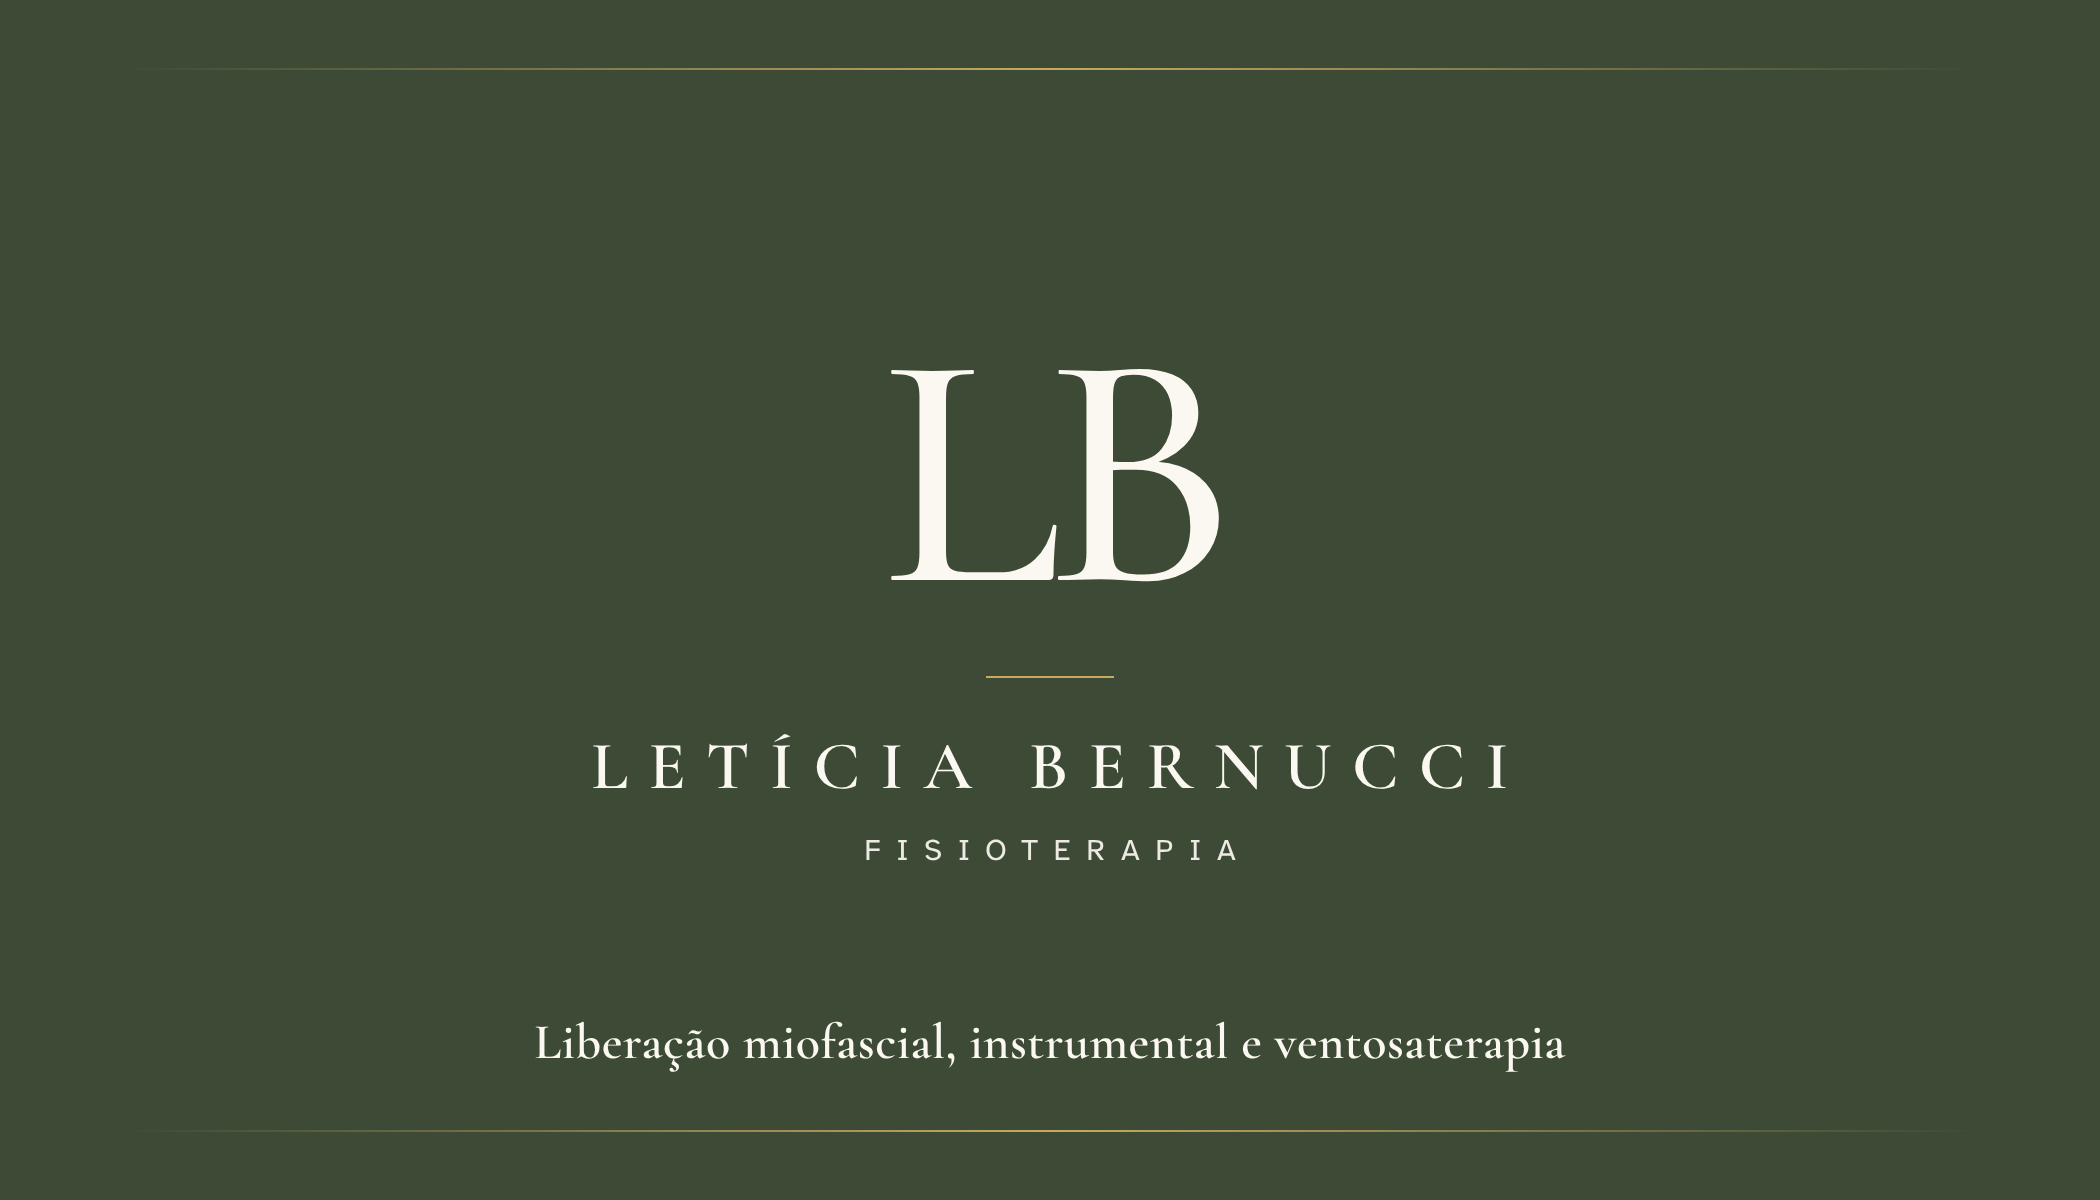
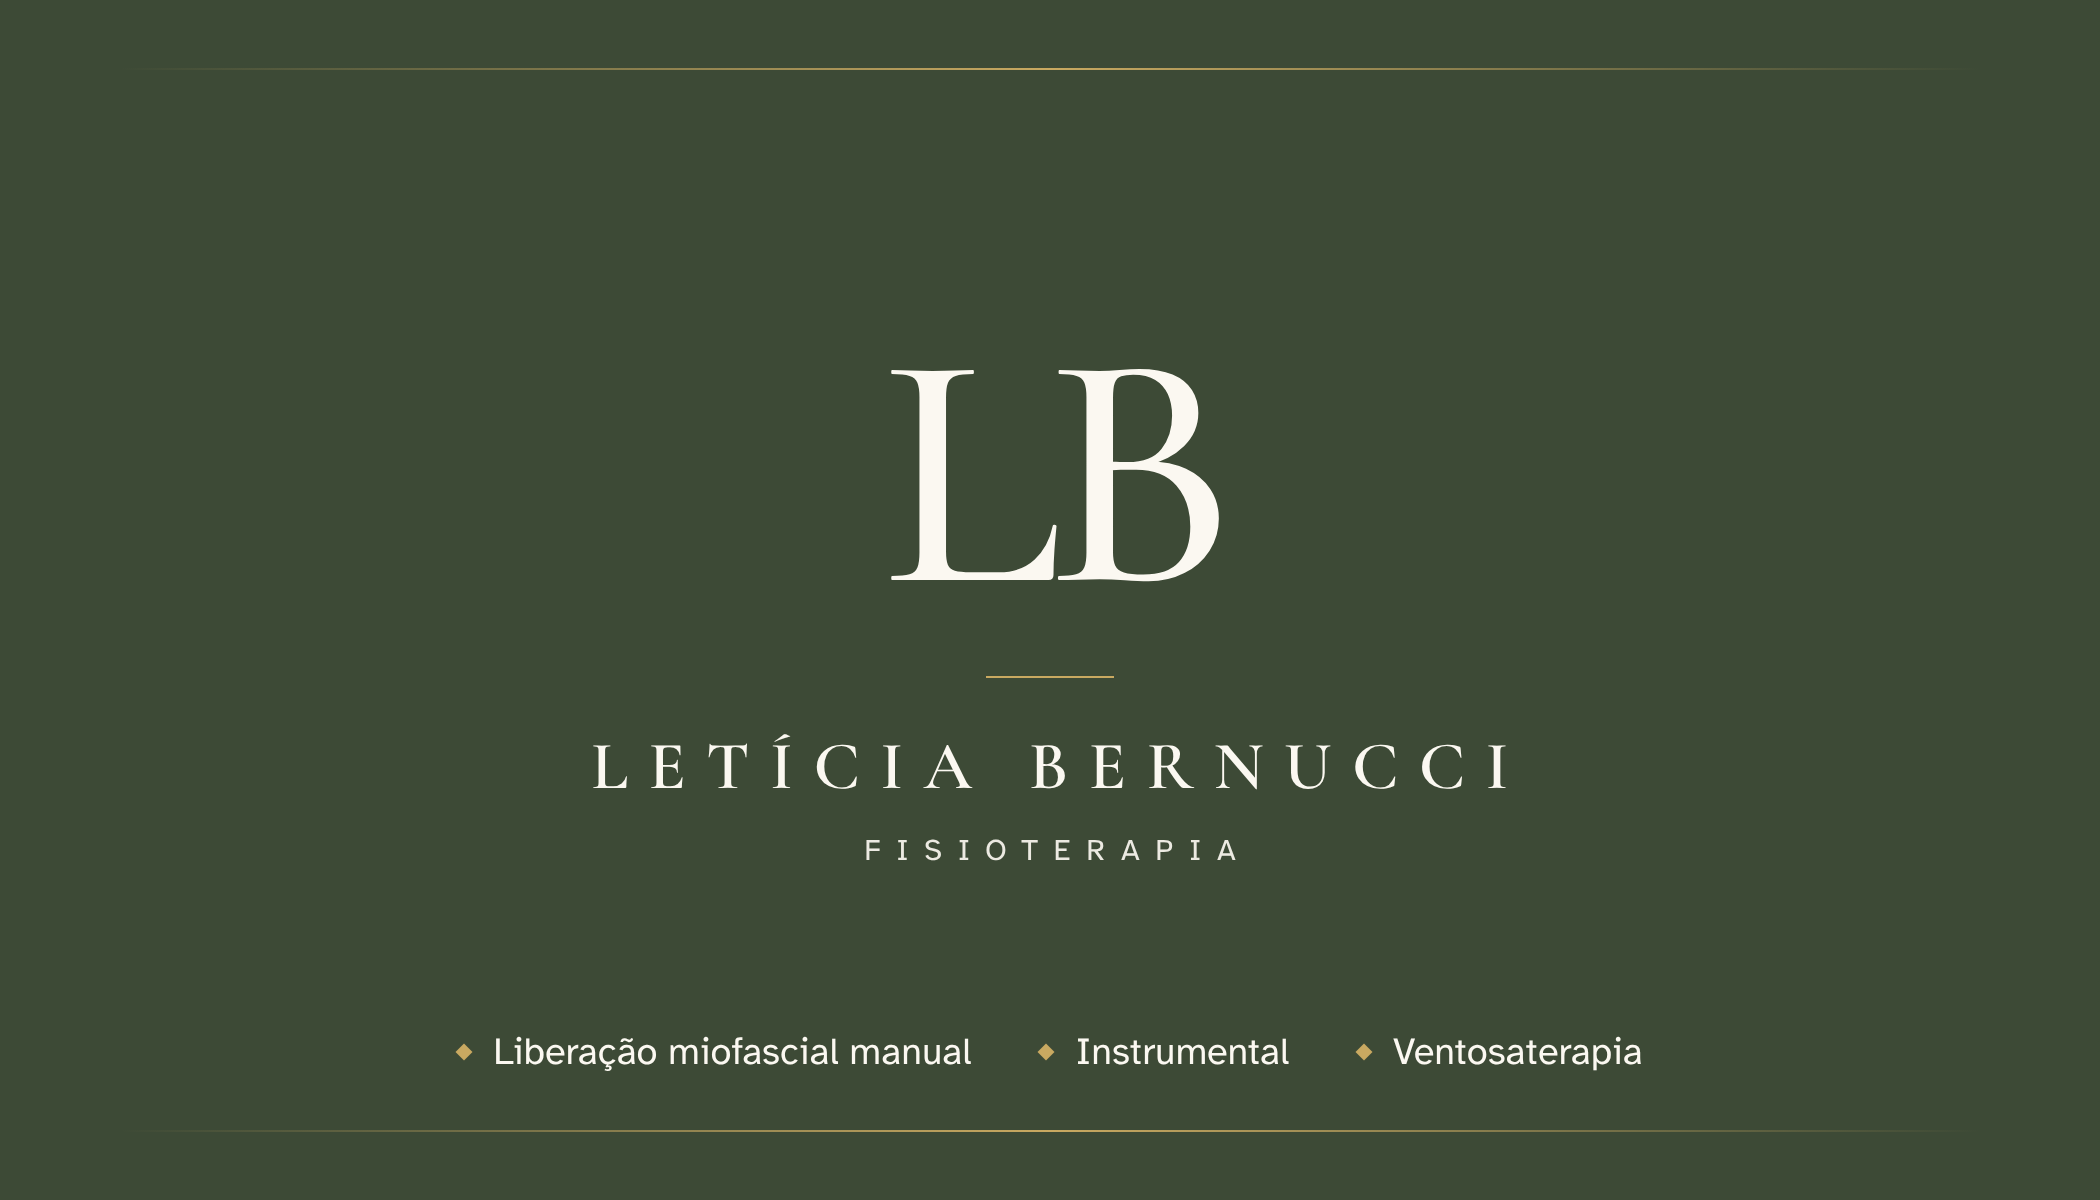
Cartão: técnicas em tópicos
- "Liberação miofascial manual", "Instrumental" e "Ventosaterapia" em
  lista com marcadores dourados, em destaque, sem frase acima.
- Frente e prévia de link mostram os três tópicos na base.
- Corrige um texto "null" que aparecia na frente quando não há frase.
- Imagens regeradas.

Claude-Session: https://claude.ai/code/session_01P7P3DMQgmU9pvidckpJpap

Changed region(s): [[0.2167, 0.8633, 0.7738, 0.8942]]

diff --git a/cartao/modelo-imagens.html b/cartao/modelo-imagens.html
@@ -33,8 +33,10 @@
     .frente .regua { background: var(--dourado); height: 1px; }
     .frente .nome { font-family: var(--titulo); font-weight: 600; text-transform: uppercase; }
     .frente .area { text-transform: uppercase; opacity: .92; }
-    .frente .servicos { display: flex; align-items: center; justify-content: center; gap: 18px; opacity: .9; }
-    .frente .servicos .losango { background: var(--dourado); width: 5px; height: 5px; }
+    .frente .servicos { display: flex; align-items: center; justify-content: center; gap: 34px; }
+    .frente .topico { display: flex; align-items: center; gap: 12px; }
+    .frente .servicos .losango { background: var(--dourado); width: 6px; height: 6px; }
+    .f-frente .servicos { position: absolute; bottom: 62px; font-size: 19px; }
     .f-frente { width: 1050px; height: 600px; }
     .f-frente .monograma { font-size: 168px; }
     .f-frente .regua { width: 64px; margin: 30px 0 24px; }
@@ -49,7 +51,7 @@
     .f-link .nome { font-size: 40px; letter-spacing: .3em; padding-left: .3em; }
     .f-link .area { font-size: 17px; letter-spacing: .52em; padding-left: .52em; margin-top: 12px; }
     .f-link .mensagem { font-size: 30px; margin-top: 30px; }
-    .f-link .servicos { position: absolute; bottom: 62px; font-size: 18px; }
+    .f-link .servicos { position: absolute; bottom: 62px; font-size: 21px; }
 
     /* ---------- Verso: serviços e contatos sobre marfim ---------- */
     .f-verso { width: 1050px; height: 600px; background: var(--marfim); display: grid; grid-template-columns: 1.08fr 1px 1fr; gap: 0 54px; padding: 64px 68px 86px; }
@@ -61,9 +63,9 @@
     .col-esq .prof { font-size: 18px; color: var(--texto-suave); margin-top: 8px; }
     .col-esq .regua { width: 48px; height: 1px; background: var(--dourado-escuro); margin: 22px 0 18px; }
     .col-esq .mensagem { font-family: var(--titulo); font-weight: 600; font-size: 31px; line-height: 1.15; color: var(--musgo-escuro); text-wrap: balance; }
-    .lista-servicos { display: flex; flex-direction: column; gap: 7px; margin-top: 18px; }
-    .lista-servicos div { display: flex; align-items: center; gap: 12px; font-size: 16px; color: var(--texto-suave); }
-    .lista-servicos .losango { width: 5px; height: 5px; }
+    .lista-servicos { display: flex; flex-direction: column; gap: 12px; }
+    .lista-servicos div { display: flex; align-items: center; gap: 16px; font-family: var(--titulo); font-weight: 600; font-size: 30px; line-height: 1.15; color: var(--musgo-escuro); }
+    .lista-servicos .losango { width: 8px; height: 8px; }
     .col-dir { display: flex; flex-direction: column; justify-content: center; gap: 22px; }
     .contato { display: flex; align-items: center; gap: 16px; font-size: 21px; color: var(--texto); }
     .contato .icone { width: 30px; height: 30px; color: var(--musgo); }
@@ -78,6 +80,9 @@
     .f-vertical .topo .area { font-size: 21px; letter-spacing: .52em; padding-left: .52em; margin-top: 16px; }
     .f-vertical .base { flex: 1; display: flex; flex-direction: column; align-items: center; justify-content: center; gap: 46px; padding: 0 80px 30px; }
     .f-vertical .mensagem { font-family: var(--titulo); font-weight: 600; font-size: 60px; line-height: 1.1; color: var(--musgo-escuro); text-align: center; text-wrap: balance; }
+    .f-vertical .lista-servicos { gap: 16px; }
+    .f-vertical .lista-servicos div { font-size: 50px; gap: 22px; }
+    .f-vertical .lista-servicos .losango { width: 11px; height: 11px; }
     .f-vertical .servicos-v { display: flex; align-items: center; justify-content: center; gap: 16px; font-size: 21px; color: var(--texto-suave); margin-top: -14px; }
     .f-vertical .servicos-v .losango { width: 6px; height: 6px; }
     .f-vertical .contatos { display: flex; flex-direction: column; gap: 22px; padding-top: 36px; border-top: 1px solid #DCD2BE; }
@@ -105,7 +110,7 @@
       }
       function servicosLinha() {
         const s = el("div", "servicos");
-        (C.servicos || []).forEach((t, i) => { if (i) s.append(el("span", "losango")); s.append(el("span", null, t)); });
+        for (const t of C.servicos || []) s.append(el("span", "topico", el("span", "losango"), el("span", null, t)));
         return s;
       }
       function servicosLista() {
@@ -147,8 +152,9 @@
       if (formato === "frente" || formato === "link") {
         arte.className = "frente f-" + formato;
         blocoMarca(arte);
-        arte.append(mensagem());
-        if (formato === "link" && (C.servicos || []).length) arte.append(servicosLinha());
+        const msg = mensagem();
+        if (msg) arte.append(msg);
+        if ((C.servicos || []).length && (formato === "link" || !C.mensagem)) arte.append(servicosLinha());
         arte.append(linha({ top: "34px", left: "60px", right: "60px" }), linha({ bottom: "34px", left: "60px", right: "60px" }));
       } else if (formato === "verso") {
         arte.className = "f-verso";
@@ -161,7 +167,7 @@
         blocoMarca(topo);
         topo.append(linha({ top: "40px", left: "80px", right: "80px" }), linha({ bottom: "40px", left: "80px", right: "80px" }));
         const contatosEl = el("div", "contatos", ...contatos());
-        arte.append(topo, el("div", "base", mensagem(), (C.servicos || []).length ? servicosV() : null, contatosEl), el("div", "faixa"));
+        arte.append(topo, el("div", "base", mensagem(), (C.servicos || []).length ? servicosLista() : null, contatosEl), el("div", "faixa"));
       }
       document.fonts.ready.then(() => { document.body.dataset.pronto = "1"; });
     })();

diff --git a/cartao/index.html b/cartao/index.html
@@ -4,11 +4,11 @@
   <meta charset="utf-8">
   <meta name="viewport" content="width=device-width, initial-scale=1, viewport-fit=cover">
   <title>Letícia Bernucci · Fisioterapia</title>
-  <meta name="description" content="Liberação miofascial, instrumental e ventosaterapia. Atendimento domiciliar.">
+  <meta name="description" content="Liberação miofascial manual, instrumental e ventosaterapia. Atendimento domiciliar.">
   <meta name="theme-color" content="#3D4A36">
   <meta property="og:type" content="website">
   <meta property="og:title" content="Letícia Bernucci · Fisioterapia">
-  <meta property="og:description" content="Liberação miofascial, instrumental e ventosaterapia · Atendimento domiciliar.">
+  <meta property="og:description" content="Liberação miofascial manual · Instrumental · Ventosaterapia · Atendimento domiciliar.">
   <meta property="og:image" content="https://rduartefrancielly-blip.github.io/catalogo-Life-atelie/fisioterapia/cartao/imagens/cartao-link.png">
   <meta property="og:url" content="https://rduartefrancielly-blip.github.io/catalogo-Life-atelie/fisioterapia/cartao/">
   <link rel="icon" href="../img/icone.svg" type="image/svg+xml">
@@ -55,8 +55,9 @@
     .verso { padding: 26px 24px 28px; display: flex; flex-direction: column; gap: 22px; }
     .mensagem { font-family: var(--titulo); font-weight: 600; font-size: 1.85rem; line-height: 1.15; color: var(--musgo-escuro); text-align: center; margin: 6px 0 0; text-wrap: balance; }
     .regua-escura { width: 40px; height: 1px; background: var(--dourado-escuro); border: 0; margin: -4px auto -6px; }
-    .servicos { list-style: none; margin: 0; padding: 0; display: flex; flex-direction: column; align-items: center; gap: 6px; text-align: center; color: var(--texto-suave); }
-    .servicos li + li::before { content: ""; display: block; width: 5px; height: 5px; margin: 0 auto 6px; background: var(--dourado-escuro); transform: rotate(45deg); }
+    .servicos { list-style: none; margin: 0 auto; padding: 0; display: flex; flex-direction: column; gap: 10px; width: fit-content; max-width: 100%; }
+    .servicos li { display: flex; align-items: center; gap: 14px; font-family: var(--titulo); font-weight: 600; font-size: 1.5rem; line-height: 1.2; color: var(--musgo-escuro); }
+    .servicos li::before { content: ""; width: 7px; height: 7px; flex: none; background: var(--dourado-escuro); transform: rotate(45deg); }
     .atendimento { margin: 0; text-align: center; color: var(--texto-suave); font-weight: 700; display: flex; justify-content: center; align-items: center; gap: 8px; flex-wrap: wrap; }
 
     .acoes { display: flex; flex-direction: column; gap: 10px; }
@@ -117,7 +118,8 @@
       if (C.mensagem) msg.textContent = C.mensagem; else msg.hidden = true;
       const servicos = document.getElementById("servicos");
       for (const s of C.servicos || []) servicos.append(el("li", null, s));
-      if (!servicos.children.length) { servicos.hidden = true; document.querySelector(".regua-escura").hidden = true; }
+      if (!servicos.children.length) servicos.hidden = true;
+      if (!C.mensagem || !servicos.children.length) document.querySelector(".regua-escura").hidden = true;
 
       const atend = document.getElementById("atendimento");
       const textoAtend = [C.atendimento, marcar(C.cidade, "[cidade]")].filter(Boolean).join(" · ");

diff --git a/cartao/dados.js b/cartao/dados.js
@@ -6,9 +6,9 @@ window.CARTAO = {
   nome: "Letícia Bernucci",
   area: "Fisioterapia",
   profissao: "Fisioterapeuta",
-  mensagem: "Liberação miofascial, instrumental e ventosaterapia",
+  mensagem: "",            // frase opcional acima dos tópicos
   registro: "",            // ex.: "CREFITO-4 000000-F"
-  servicos: [],            // lista opcional de técnicas, mostrada abaixo da mensagem
+  servicos: ["Liberação miofascial manual", "Instrumental", "Ventosaterapia"], // tópicos em destaque
   atendimento: "Atendimento domiciliar",
   cidade: "",              // ex.: "Belo Horizonte · MG"
   telefone: "31995259528", // só números, com DDD
